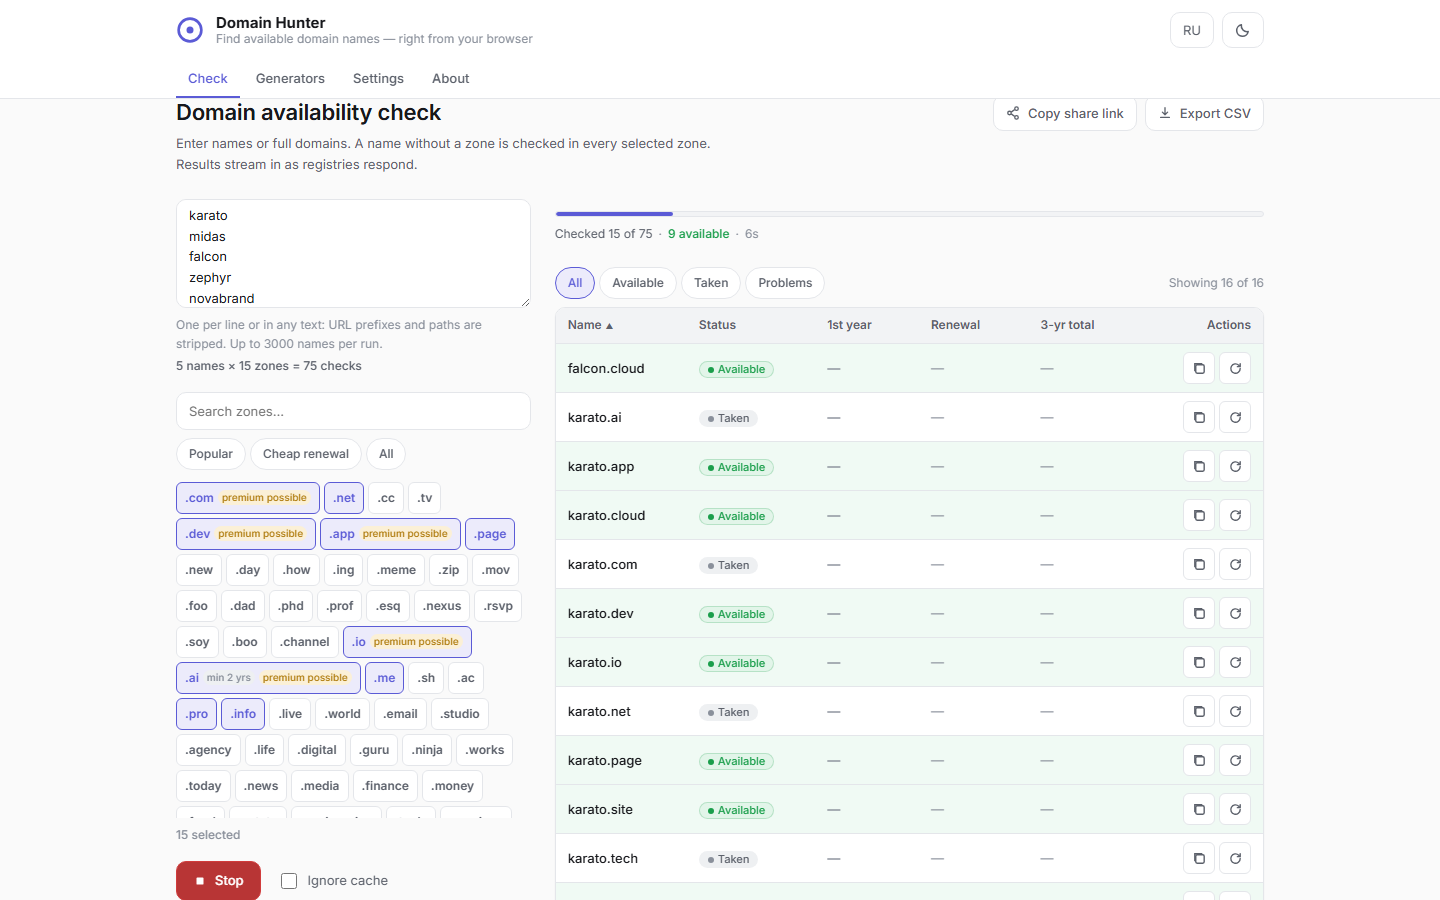
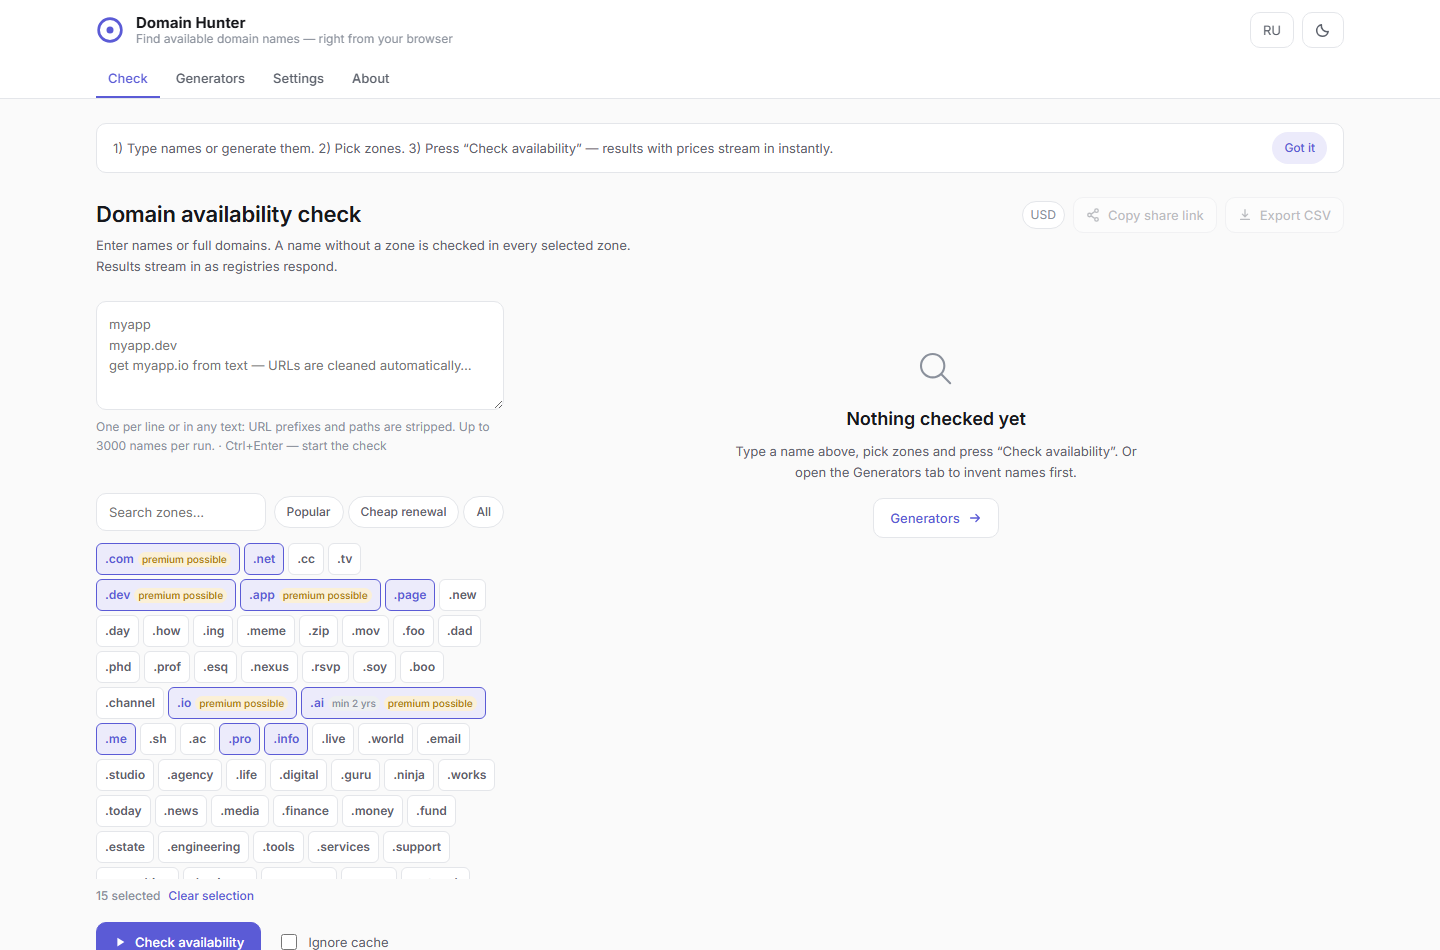
Docs sync: README features + fresh screenshots, SPEC section 17 (post-spec evolutions)

diff --git a/README.ru.md b/README.ru.md
@@ -16,8 +16,9 @@
 - **Массовая проверка** — до 3000 имён за раз; с расширением по выбранным зонам выходит до 30 000 проверок, результаты стримятся в таблицу. Прерванный запуск можно продолжить.
 - **140+ зон** — `com net io ai dev app xyz me co uk de nl fr ch so ly tech site online store cloud` и ещё 120+, на 17 реестровых инфраструктурах. Новые зоны подхватываются автоматически через живой IANA-бутстрап.
 - **Честные статусы** — `available` / `probably_available` / `unknown`. Для ccTLD с ненадёжным RDAP 404 подтверждается через DNS-over-HTTPS (Cloudflare + Google DNS). Инструмент никогда не «угадывает» доступность.
-- **Пять генераторов** — комбинатор «корни × аффиксы», мешалка слогов с оценкой благозвучности (на базе CMUdict), тематические наборы со смыслом слов, TLD-хаки (`family` → `fami.ly`) и мутации слов (`midas` → `mydas`, `midaz`, `midaso`).
-- **Цены и TCO** — первый год и продление (Porkbun и Cloudflare, офлайн-снапшот в резерве), купоны, детект «промо-ловушки» (продление ≥ 5× первого года), сортировка по 3-летнему TCO, ссылки на покупку у 12 регистраторов. Цены в $, ₽ или €.
+- **Пять генераторов** — комбинатор «корни × аффиксы», мешалка слогов с оценкой благозвучности (на базе CMUdict), тематические наборы со смыслом слов, TLD-хаки (`family` → `fami.ly`) и мутации слов (`midas` → `mydas`, `midaz`, `midaso`). Кандидаты собираются в персистентный лоток, который переживает переключение табов и заранее показывает проектное число проверок.
+- **Цены и TCO** — первый год и продление live из Porkbun и Cloudflare плюс еженедельный harvest со сравнением до пяти регистраторов (Dynadot, Spaceship, ValueDomain в снапшотах); купоны, детект «промо-ловушки» (продление ≥ 5× первого года), сортировка по 3-летнему TCO и coverage-aware ссылки на покупку у 13 регистраторов. Цены в $, ₽ или €.
+- **«Где купить» по домену** — один клик на свободном домене показывает предупреждение о премиуме реестра (с ценой) и самого дешёвого на данный момент регистратора со ссылкой покупки (публичный API DigMyName, без ключей).
 - **Вежливость к реестрам** — AIMD-лимиты на каждую инфраструктуру (строгий ~1 запрос/с для Google Registry соблюдается), backoff на 429 с учётом `Retry-After`, кэш результатов в localStorage.
 - **Шаринг и экспорт** — ссылки `#s=` (запрос + зоны, автостарт проверки), CSV-экспорт в Excel-совместимом формате, копирование и перепроверка каждой строки.
 - **Приватность** — без аналитики, телеметрии и аккаунтов. Всё состояние — в `localStorage` вашего браузера. Двуязычный интерфейс (EN/RU), светлая и тёмная темы, мобильная вёрстка.

diff --git a/README.md b/README.md
@@ -19,8 +19,9 @@ Domain Hunter checks domain availability directly against registry **RDAP** endp
 - **Bulk availability checking** — paste up to 3,000 names; expansion across selected TLDs yields up to 30,000 checks per run, streamed live into a sortable table. Interrupted runs can be resumed.
 - **140+ curated TLD zones** — `com net io ai dev app xyz me co uk de nl fr ch so ly tech site online store cloud` and 120+ more, across 17 registry infrastructures. Additional zones are discovered automatically via the live IANA RDAP bootstrap.
 - **Honest three-state results** — `available` / `probably_available` / `unknown`. For low-trust ccTLDs a 404 is corroborated with DNS-over-HTTPS (Cloudflare + Google DNS) before anything is called available. Domain Hunter never guesses.
-- **Five name generators** — root × affix combinator, a pronounceability-scored syllable mixer (CMUdict-derived), curated thematic word sets, TLD-hacks (`family` → `fami.ly`), and word mutations (`midas` → `mydas`, `midaz`, `midaso`).
-- **Live prices and TCO** — first-year and renewal prices from Porkbun and Cloudflare (with an offline snapshot fallback), coupons, promo-trap detection (renewal ≥ 5× first year), 3-year TCO sorting, and buy links to 12 registrars. Prices in USD, RUB, or EUR.
+- **Five name generators** — root × affix combinator, a pronounceability-scored syllable mixer (CMUdict-derived), curated thematic word sets, TLD-hacks (`family` → `fami.ly`), and word mutations (`midas` → `mydas`, `midaz`, `midaso`). Candidates collect in a persistent tray that survives tab switches and shows the projected number of checks before you run them.
+- **Live prices and TCO** — first-year and renewal prices live from Porkbun and Cloudflare, plus a weekly harvest comparing up to five registrars (Dynadot, Spaceship, ValueDomain snapshots); coupons, promo-trap detection (renewal ≥ 5× first year), 3-year TCO sorting, and coverage-aware buy links to 13 registrars. Prices in USD, RUB, or EUR.
+- **Per-domain "where to buy"** — one click on an available domain shows a registry-premium warning (with the premium price) and the currently cheapest registrar with a direct buy link (public DigMyName API, no keys).
 - **Polite to registries** — per-infrastructure AIMD rate limiting (e.g. Google Registry's strict ~1 rps is honored), automatic backoff on HTTP 429 with `Retry-After`, and result caching in `localStorage`.
 - **Share and export** — one-click share links (`#s=` encodes query + zones, auto-starts the run), Excel-compatible CSV export (BOM + quoting), copy/recheck per row.
 - **Private by design** — no analytics, no telemetry, no accounts. All state lives in your browser's `localStorage`. Bilingual UI (English/Russian), light and dark themes, mobile-friendly.

diff --git a/SPEC.md b/SPEC.md
@@ -371,3 +371,26 @@ Every generator panel: output list (deduped, cap 500), "Check now" (fills Check 
 Expired/dropped domains feed (WhoisFreaks daily CSV), social-handle checks, aftermarket search,
 custom domain (CNAME), more registrars in price matrix (keys required), affiliate link activation
 (config already affiliate-ready: Porkbun Ambassador + Dynadot Ambassador first).
+
+## 17. Post-spec evolutions (implemented after §1–16)
+
+- **Interrupted runs**: leaving the Check tab mid-run settles `runState` to
+  `done` and persists a resume snapshot (`dh:v1:run`); the resume banner
+  renders at the top of the Check tab; a fresh run request (share link
+  `run:true` or Generators "Check now") supersedes and discards it.
+- **Candidate tray**: generator output lives in a persisted store
+  (`dh:v1:gentray`), survives tab switches and reloads; the tray shows the
+  projected check count (bare names × selected zones) before running.
+- **Coverage-aware buy links**: the buy button targets the cheapest registrar
+  that has a deep-link template in `registrars.json`, not merely the cheapest
+  price in the table (snapshots may contain registrars without links).
+- **Per-domain detail row**: on-demand lookup via the public DigMyName API
+  (no auth, CORS `*`, rate-limited client-side to on-demand clicks) shows a
+  registry-premium warning with price and the currently cheapest registrar
+  with a buy URL.
+- **Harvest sources**: Porkbun + cfdomainpricing (live and harvest); Dynadot
+  GUEST XML (`tldPrices`, ~805 TLDs) and regctl.sh `prices.json` (Spaceship /
+  Porkbun / Cloudflare / ValueDomain) as best-effort harvest-only sources.
+- **Results table**: sticky header inside its own scroll area, right-aligned
+  tabular-numeral price columns, subtle zebra striping, sticky domain column
+  on narrow screens.
